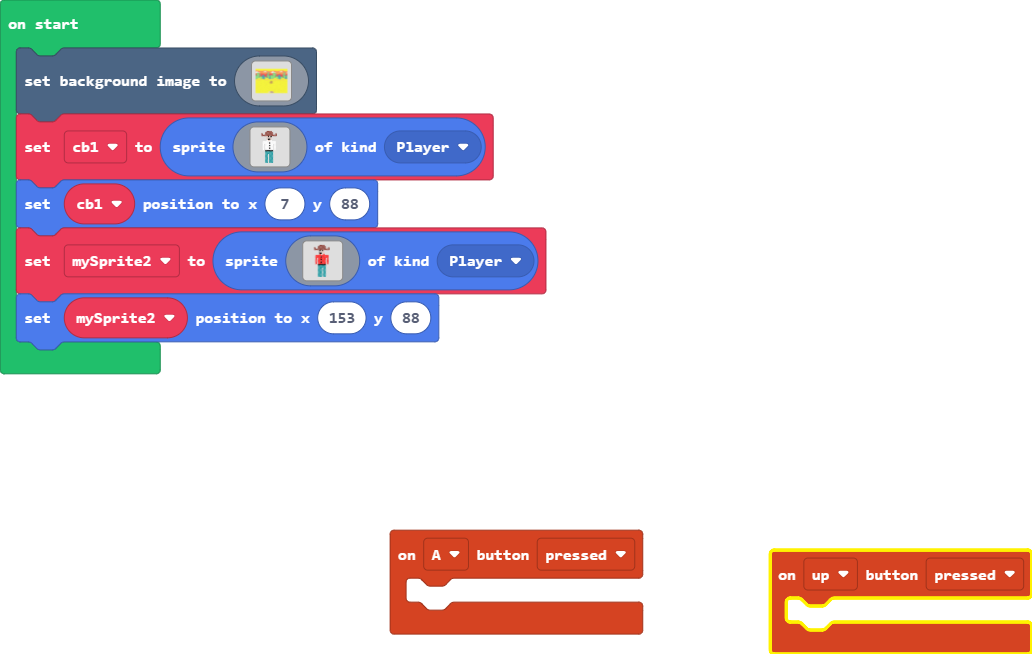
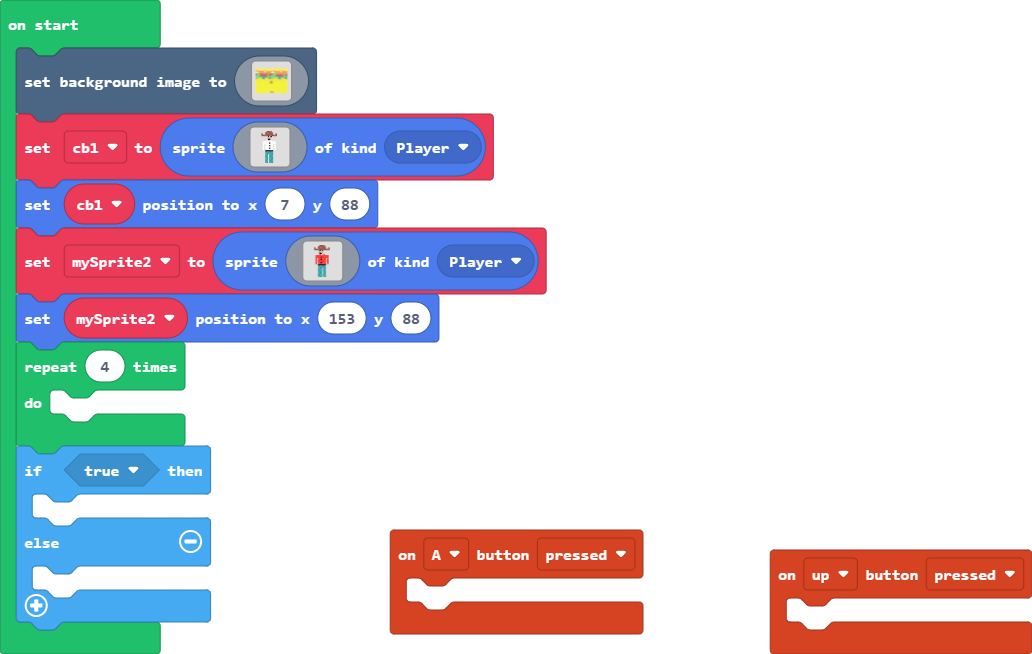
Update main.blocks, main.ts

diff --git a/main.ts b/main.ts
@@ -182,3 +182,11 @@ let mySprite2 = sprites.create(img`
     .....666.66.....
     `, SpriteKind.Player)
 mySprite2.setPosition(153, 88)
+for (let index = 0; index < 4; index++) {
+	
+}
+if (true) {
+	
+} else {
+	
+}
